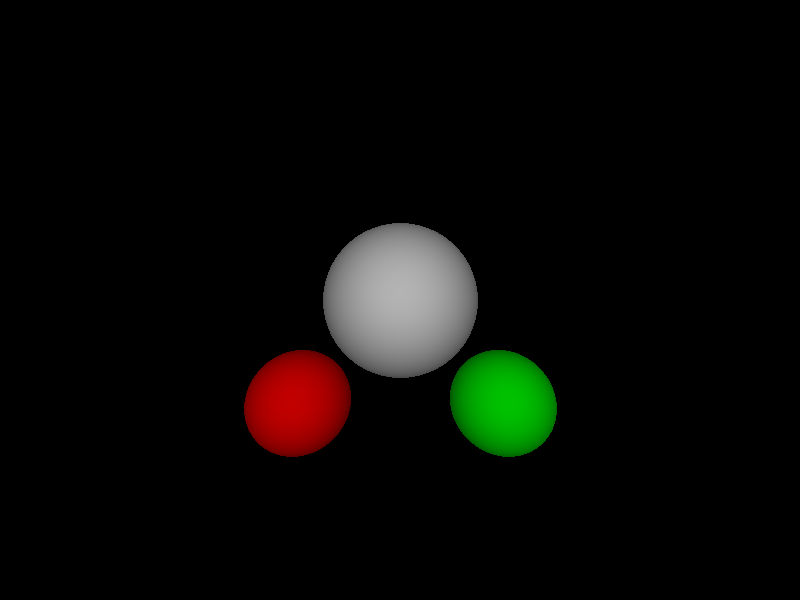
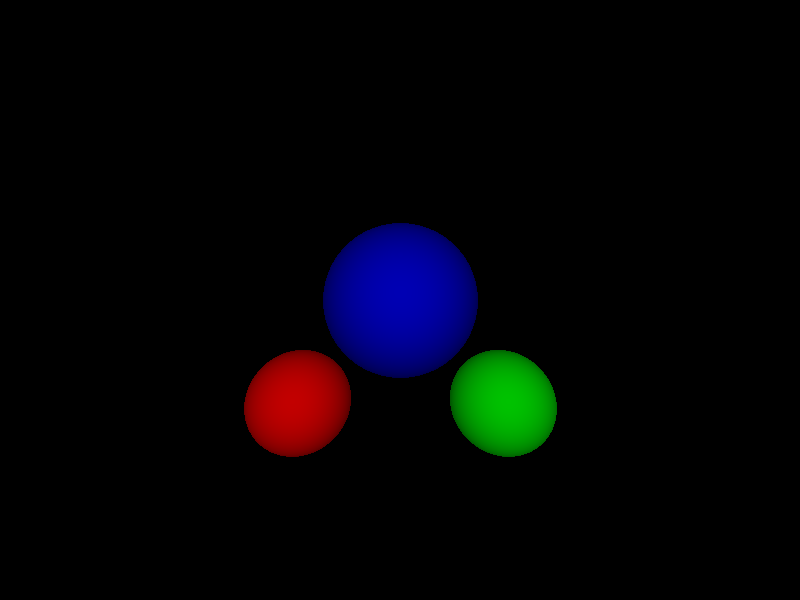
Some quick updates to the image

Changed region(s): [[0.4062, 0.36, 0.625, 0.63]]

diff --git a/src/main/java/com/mattbolt/javaray/JavaRay.java b/src/main/java/com/mattbolt/javaray/JavaRay.java
@@ -58,7 +58,7 @@ public class JavaRay {
         Camera camera = new Camera(new Vector3(4, 3, 3));
 
         Scene scene = new Scene(configuration);
-        scene.add( new Sphere(new Vector3(4, 3, -5), newMat(2, 2, 2, 5, 5, 5), 2) );
+        scene.add( new Sphere(new Vector3(4, 3, -5), newMat(0, 0, 2, 0, 0, 5), 2) );
         scene.add( new Sphere(new Vector3(2, 5, -3), newMat(2, 0, 0, 5, 0, 0), 1) );
         scene.add( new Sphere(new Vector3(6, 5, -3), newMat(0, 2, 0, 0, 5, 0), 1) );
         scene.add( new Light(new Vector3(2, 1, 10), 3, 1) );
